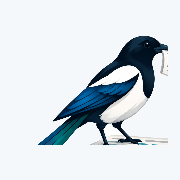
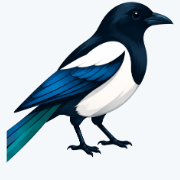
Rebuild brand assets from the bird-only illustration
The bird alone survives small sizes far better than the bird perched on
a stack of newspapers. The stack spent most of a 16px tile on grey
rectangles; without it the head, white breast, blue wing and long tail
are all still distinguishable at 32px, and the shape holds at 16px.

Crops were compared at true pixel sizes again
(brand/favicon-crop-comparison.png). The chosen one keeps the full tail,
which is what reads as a magpie rather than a generic bird.

Regenerated from the same source so everything matches: favicons at 16,
32 and 48, apple touch icon, masthead mark, full logo and og:image. The
og image is cleaner without the stack, and the masthead mark got lighter
(81KB to 61KB).

Also set site.contactEmail to a real address, which clears the build
warning. It borrows another domain for now; worth moving to a
magpiebrief.com address once that is registered.

diff --git a/config.js b/config.js
@@ -20,11 +20,10 @@ export const site = {
   // line to 'https://magpiebrief.com' and every link, canonical tag, sitemap
   // entry and RSS URL follows automatically.
   url: 'https://ericaihaddadene-sketch.github.io/magpiebrief',
-  // PLACEHOLDER — replace before pointing any advertiser at the site.
-  // This is published as a mailto: link on /advertise, so it is deliberately
-  // written to read as unfinished rather than as a real address that bounces.
-  // The build prints a warning while it is still set to this.
-  contactEmail: 'you@yourdomain.com',
+  // Published as a mailto: link on /advertise. Borrowed from another domain for
+  // now; worth moving to a magpiebrief.com address once that domain is
+  // registered, so enquiries don't arrive under an unrelated brand.
+  contactEmail: 'hello@siteinthree.com',
   locale: 'en-US',
   // Shown in the footer. Keep it honest — it's what makes aggregation defensible.
   attribution: 'Headlines and short excerpts link to the original publisher. All rights remain with them.'
